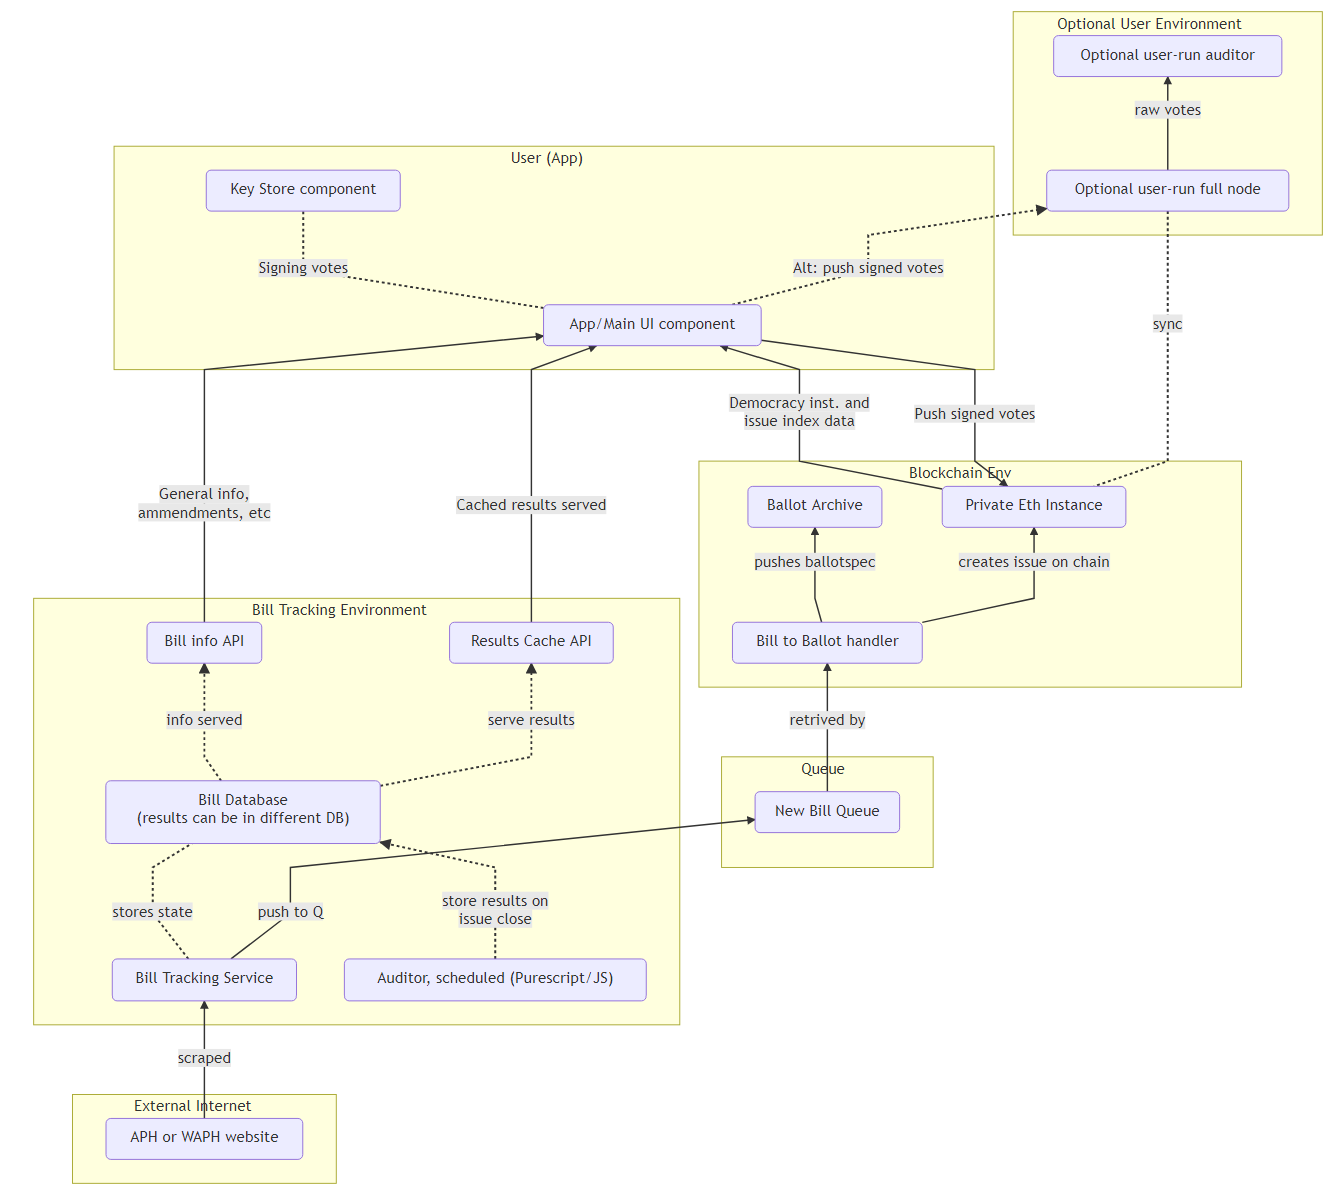
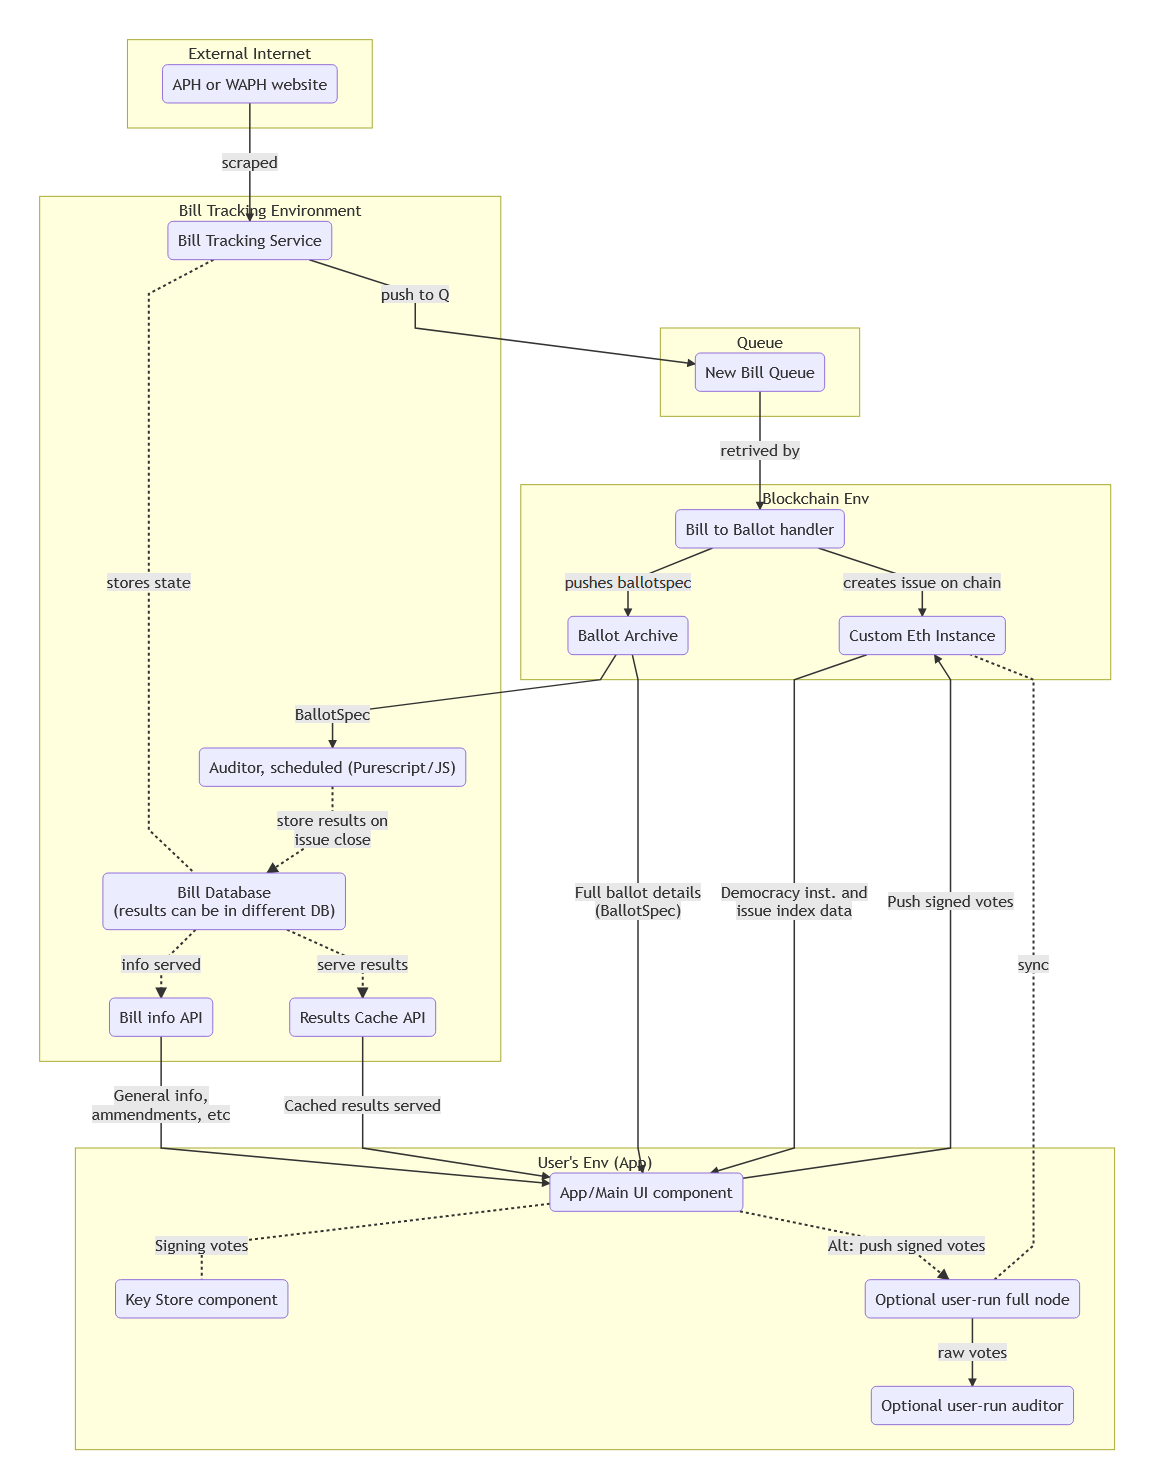
update with some links I forgot

diff --git a/README.md b/README.md
@@ -150,58 +150,59 @@ Live editor: https://mermaid-js.github.io/mermaid-live-editor/
 current source code:
 
 ```mermaid
-graph BT
+graph TB
 
 subgraph External Internet
-PH(APH or WAPH website)
+    PH(APH or WAPH website)
 end
 
 subgraph Queue
-BillQ(New Bill Queue)
+    BillQ(New Bill Queue)
 end
 
-subgraph "User (App)"
-App(App/Main UI component)
-KeyStore(Key Store component)
-end
+subgraph "User's Env (App)"
+    App(App/Main UI component)
+    KeyStore(Key Store component)
 
-subgraph "Optional User Environment"
-UserNode(Optional user-run full node)
-UserAuditor(Optional user-run auditor)
+    UserNode(Optional user-run full node)
+    UserAuditor(Optional user-run auditor)
 end
 
 subgraph Bill Tracking Environment
-BillTracker(Bill Tracking Service)
-BillDB("Bill Database<br/>(results can be in different DB)")
-BillApi(Bill info API)
-ResultsCacheApi(Results Cache API)
-AuditJob("Auditor, scheduled (Purescript/JS)")
+    BillTracker(Bill Tracking Service)
+    BillDB("Bill Database<br/>(results can be in different DB)")
+    BillApi(Bill info API)
+    ResultsCacheApi(Results Cache API)
+    AuditJob("Auditor, scheduled (Purescript/JS)")
 end
 
 subgraph Blockchain Env
-BillToBallot(Bill to Ballot handler)
-BallotArchive(Ballot Archive)
-PrivChain(Private Eth Instance)
+    BillToBallot(Bill to Ballot handler)
+    PrivChain(Custom Eth Instance)
+    BallotArchive(Ballot Archive)
 end
 
 PH -->|scraped| BillTracker
-BillTracker -.-|stores state| BillDB
 BillTracker -->|push to Q| BillQ
+BillTracker -.-|stores state| BillDB
 BillDB -.->|info served| BillApi
 
 AuditJob -.->|store results on<br/>issue close| BillDB
 BillDB -.->|serve results| ResultsCacheApi
 
 BillQ -->|retrived by| BillToBallot
-BillToBallot -->|pushes ballotspec| BallotArchive
 BillToBallot -->|creates issue on chain| PrivChain
+BillToBallot -->|pushes ballotspec| BallotArchive
 
 BillApi -->|General info,<br/>ammendments, etc| App 
 ResultsCacheApi -->|Cached results served| App 
-PrivChain -->|Democracy inst. and<br/>issue index data| App
 App -.-|Signing votes| KeyStore
 App -->|Push signed votes| PrivChain
 App -.->|Alt: push signed votes| UserNode
+BallotArchive -->|"Full ballot details<br/>(BallotSpec)"| App
+PrivChain -->|Democracy inst. and<br/>issue index data| App
+
+BallotArchive -->|BallotSpec| AuditJob
 
 UserNode -.-|sync| PrivChain
 UserNode -->|raw votes| UserAuditor
